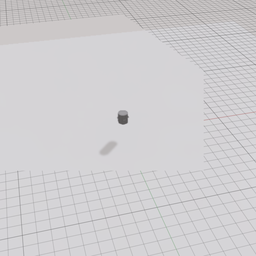
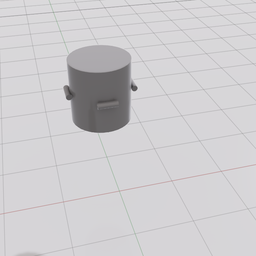
- fixed multi robot spawning and observation handling

diff --git a/omniisaacgymenvs/tasks/floating_platform.py b/omniisaacgymenvs/tasks/floating_platform.py
@@ -35,8 +35,8 @@ class FloatingPlatformTask(RLTask):
 
         self.dt = self._task_cfg["sim"]["dt"]
         
-        self._num_observations = 4
-        self._num_actions = 1
+        self._num_observations = 18
+        self._num_actions = 4
 
         self._fp_position = torch.tensor([0, 0, 1.0])
         self._ball_position = torch.tensor([0, 0, 1.0])
@@ -44,6 +44,9 @@ class FloatingPlatformTask(RLTask):
         # call parent class’s __init__
         RLTask.__init__(self, name, env)
 
+
+        self.target_positions = torch.zeros((self._num_envs, 3), device=self._device, dtype=torch.float32)
+        self.target_positions[:, 2] = 1
         self.all_indices = torch.arange(self._num_envs, dtype=torch.int32, device=self._device)
 
         return
@@ -54,18 +57,19 @@ class FloatingPlatformTask(RLTask):
         self.get_target()
         RLTask.set_up_scene(self, scene) # pass scene to parent class - this method in RLTask also uses GridCloner to clone the robot and adds a ground plane if desired
 
-        root_path = "/World/envs/.*/robot" 
-       # self._fp = FloatingPlatformView(prim_paths_expr=root_path, name="floating_platform_view") 
+        root_path = "/World/envs/.*/floating_platform" 
+        self._platforms = FloatingPlatformView(prim_paths_expr=root_path, name="floating_platform_view") 
+        print()
         self._balls = RigidPrimView(prim_paths_expr="/World/envs/.*/ball")
-       # print(f'\n\n FP: {self._fp} \n\n') 
-      #  scene.add(self._fp) # add view to scene for initialization
+        
+        scene.add(self._platforms) # add view to scene for initialization
         scene.add(self._balls)
-      #  for i in range(4):
-           # scene.add(self._fp.thrusters[i])
+        for i in range(4):
+            scene.add(self._platforms.thrusters[i])
         return
 
     def get_floating_platform(self):
-        fp = FloatingPlatform(prim_path=self.default_zero_env_path + "/robot/base_link/Cylinder", name="floating_platform",
+        fp = FloatingPlatform(prim_path=self.default_zero_env_path + "/floating_platform", name="floating_platform",
                             translation=self._fp_position)
         self._sim_config.apply_articulation_settings("floating_platform", get_prim_at_path(fp.prim_path),
                                                         self._sim_config.parse_actor_config("floating_platform"))
@@ -99,32 +103,33 @@ class FloatingPlatformTask(RLTask):
 
     def get_observations(self) -> dict:
         # implement logic to retrieve observation states
-        # self.root_pos, self.root_rot = self._actuators.get_world_poses(clone=False)
-        # self.root_velocities = self._actuators.get_velocities(clone=False)
-        # root_positions = self.root_pos - self._env_pos
-        # root_quats = self.root_rot
+        self.root_pos, self.root_rot = self._platforms.get_world_poses(clone=False)
+        self.root_velocities = self._platforms.get_velocities(clone=False)
+        root_positions = self.root_pos - self._env_pos
+        root_quats = self.root_rot
 
-        # rot_x = quat_axis(root_quats, 0)
-        # rot_y = quat_axis(root_quats, 1)
-        # rot_z = quat_axis(root_quats, 2)
+        rot_x = quat_axis(root_quats, 0)
+        rot_y = quat_axis(root_quats, 1)
+        rot_z = quat_axis(root_quats, 2)
 
-        # root_linvels = self.root_velocities[:, :3]
-        # root_angvels = self.root_velocities[:, 3:]
+        root_linvels = self.root_velocities[:, :3]
+        root_angvels = self.root_velocities[:, 3:]
 
-        # self.obs_buf[..., 0:3] = self.target_positions - root_positions
+        self.obs_buf[..., 0:3] = self.target_positions - root_positions
+        self.obs_buf[..., 3:6] = rot_x
+        self.obs_buf[..., 6:9] = rot_y
+        self.obs_buf[..., 9:12] = rot_z
 
-        # self.obs_buf[..., 3:6] = rot_x
-        # self.obs_buf[..., 6:9] = rot_y
-        # self.obs_buf[..., 9:12] = rot_z
-
-        # self.obs_buf[..., 12:15] = root_linvels
-        # self.obs_buf[..., 15:18] = root_angvels
+        self.obs_buf[..., 12:15] = root_linvels
+        self.obs_buf[..., 15:18] = root_angvels
 
         observations = {
-            #self._my_robots.name: {
-            #    "obs_buf": self.obs_buf
-            #}
+            self._platforms.name: {
+               "obs_buf": self.obs_buf
+            }
         }
+        print(f'\n\n\n\n observation 1: {observations[0]} \n\n\n')
+
         return observations
 
 

diff --git a/omniisaacgymenvs/robots/articulations/floating_platform.py b/omniisaacgymenvs/robots/articulations/floating_platform.py
@@ -58,10 +58,10 @@ class FloatingPlatform(Robot):
             assets_root_path = get_assets_root_path()
             if assets_root_path is None:
                 carb.log_error("Could not find Isaac Sim assets folder")
-            self._usd_path = "/robots/usd/fp3.usd"
+            self._usd_path = "/home/matteo/Projects/OmniIsaacGymEnvs/omniisaacgymenvs/robots/usd/fp3.usd"
 
         add_reference_to_stage(self._usd_path, prim_path)
-        scale = torch.tensor([2, 2, 2])
+        scale = torch.tensor([1, 1, 1])
 
         super().__init__(
             prim_path=prim_path,

diff --git a/omniisaacgymenvs/robots/articulations/views/floating_platform_view.py b/omniisaacgymenvs/robots/articulations/views/floating_platform_view.py
@@ -46,5 +46,5 @@ class FloatingPlatformView(ArticulationView):
             name=name,
         )
 
-        self.thrusters = [RigidPrimView(prim_paths_expr=f"/World/envs/.*/robot/t{i}/thruster_{i}",
+        self.thrusters = [RigidPrimView(prim_paths_expr=f"/World/envs/.*/floating_platform/t{i}/thruster_{i}",
                                              name=f"thruster_{i}_view") for i in range(1, 5)]
